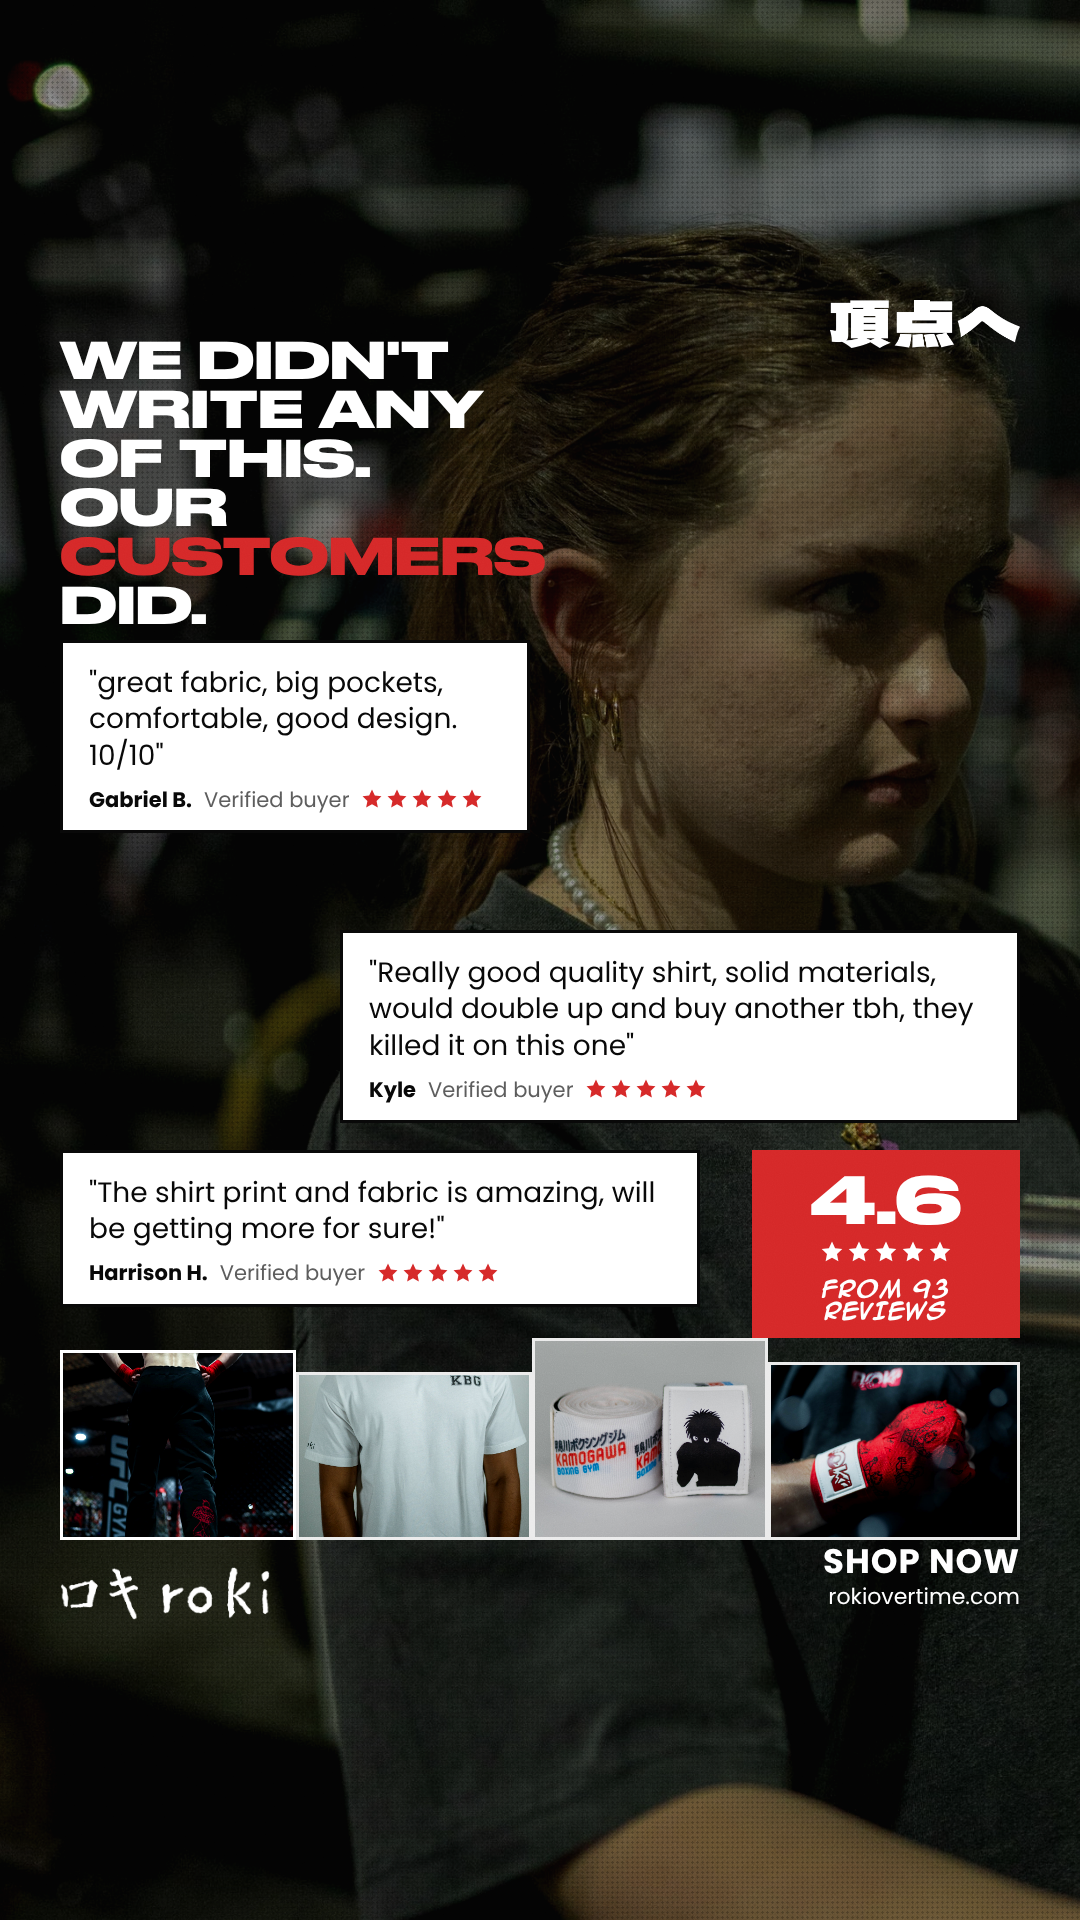
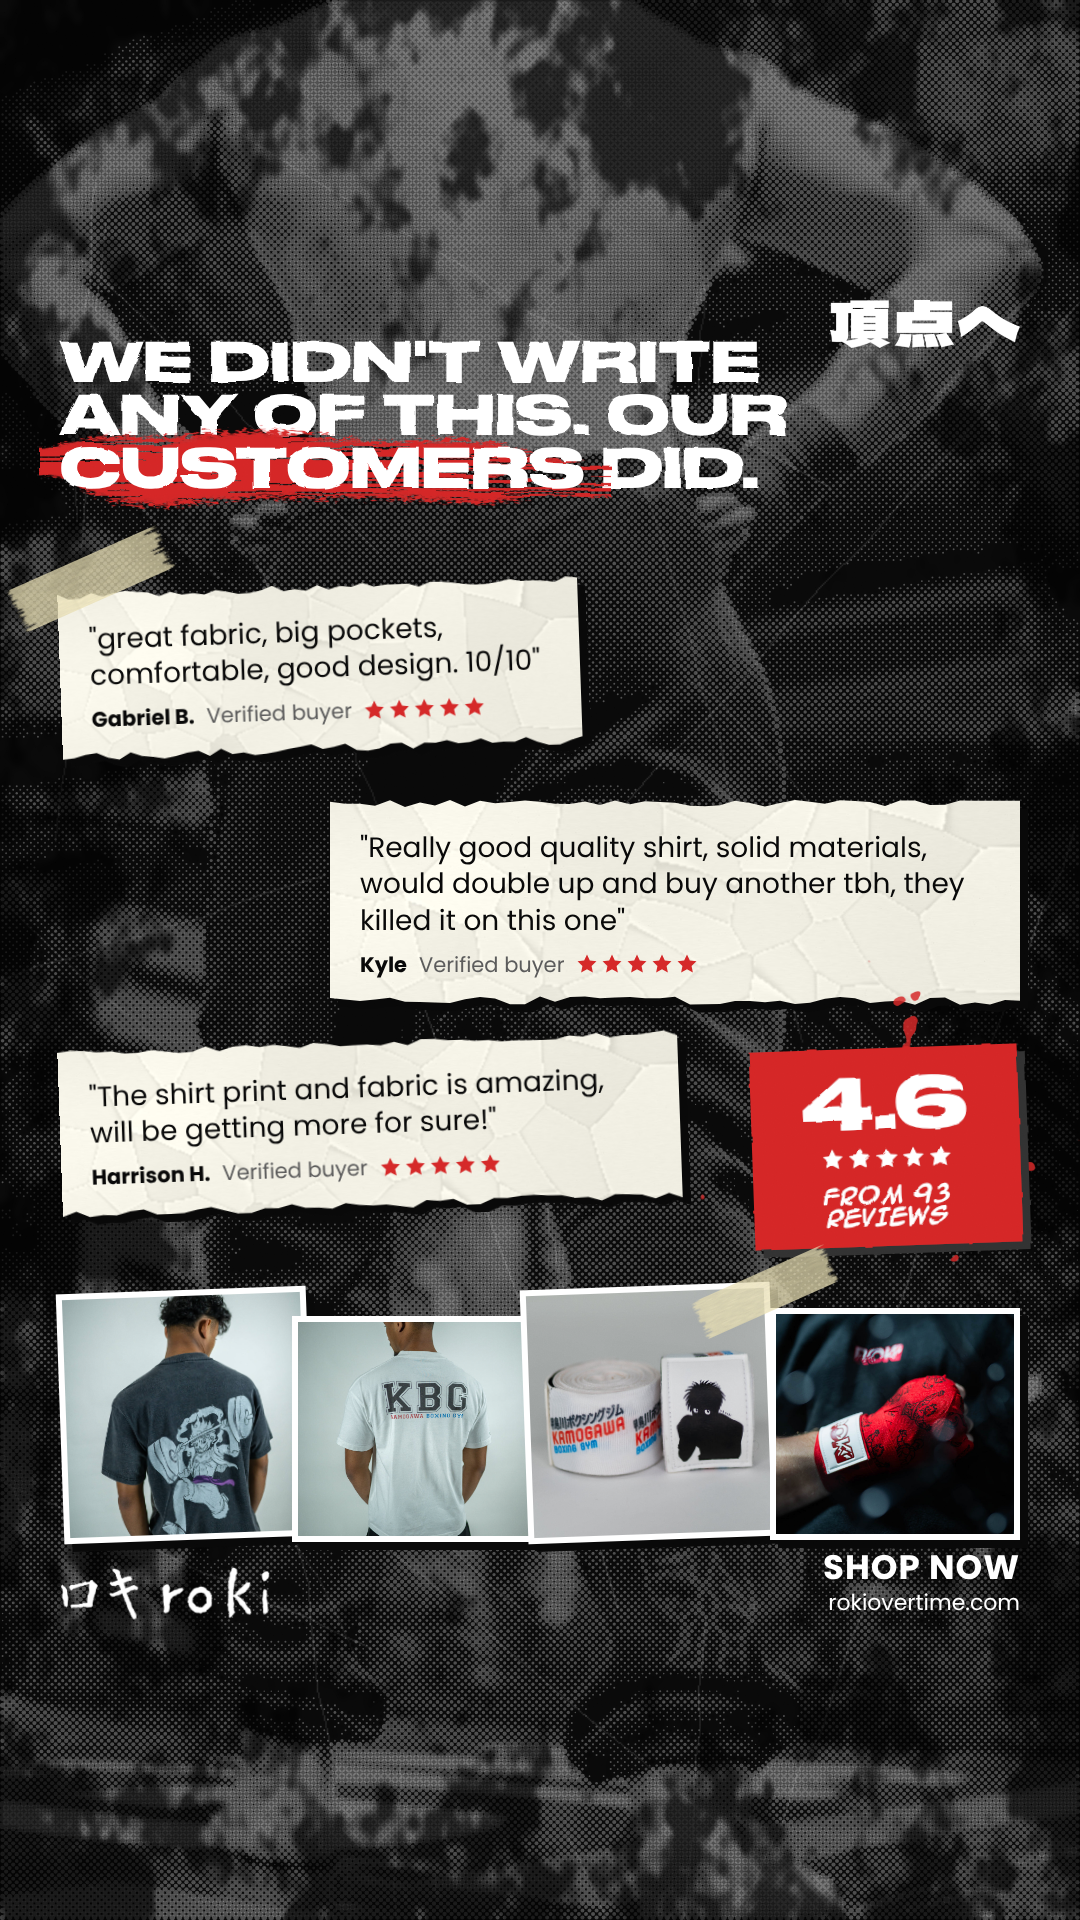
AD-007 hi-fi v2: grunge treatment, cage halftone background, new thumbs, 3-line hook
Claude-Session: https://claude.ai/code/session_012ToaCGcLt8u8fZtcLrNXTx

diff --git a/ads/AD-007/layout/AD-007-layout.html b/ads/AD-007/layout/AD-007-layout.html
@@ -15,47 +15,62 @@
     --ink: #080808;
     --paper: #ffffff;
     --ink-muted: #5a5a5a;
-    --space-3: 60px;
     --border-frame: 3px;
     --font-display: "Druk Wide", "Arial Black", sans-serif;
     --font-comic: "Anime Ace", "Comic Sans MS", cursive;
     --font-body: Poppins, "Helvetica Neue", Arial, sans-serif;
+    --tilt: -2deg;           /* the one tilt; everything else is 0 */
   }
 
   * { box-sizing: border-box; margin: 0; }
   body { background: var(--ink); }
   .ad { position: relative; width: 1080px; height: 1920px; overflow: hidden; background: var(--ink); }
   .layer { position: absolute; inset: 0; }
+  canvas.layer { width: 1080px; height: 1920px; }
 
-  /* Hero: full-bleed, house finish (graded down, crushed blacks, fine screen tone) */
-  .hero { background: url("assets/hero-pumpcover.jpg") -17px 0 / auto 2200px no-repeat; filter: contrast(1.12) brightness(.78) saturate(.9); }
-  .shade { background: var(--ink); opacity: .32; }
-  .tone { background: radial-gradient(circle, var(--ink) 34%, transparent 38%) 0 0 / 5px 5px; opacity: .22; mix-blend-mode: multiply; }
+  /* Background: Tier C halftone plate of the cage shot, paper dots on ink */
+  .bg-dim { background: var(--ink); opacity: .36; }
+  .edge { background: url("assets/grunge/edge_0.png") center / 100% 100%; opacity: .9; }
+  .scratch { background: url("assets/grunge/scratch_0.png") center / cover; filter: invert(1); mix-blend-mode: screen; opacity: .18; }
 
-  .hook { position: absolute; left: 60px; top: 336px; width: 470px; font: 700 50px/0.98 var(--font-display); color: var(--paper); text-transform: uppercase; }
-  .hook em { font-style: normal; color: var(--signal-red); }
+  /* Hook: three lines, fitted by measurement */
+  .hook { position: absolute; left: 60px; top: 336px; width: 760px; color: var(--paper); font-family: var(--font-display); font-weight: 700; line-height: .98; text-transform: uppercase; filter: url(#rough); }
+  .hook span { display: block; white-space: nowrap; width: max-content; }
+  .hook .hit { position: relative; z-index: 0; }
+  .hook .hit::before { content: ""; position: absolute; z-index: -1; left: -20px; right: -28px; top: -16px; bottom: -20px; background: var(--signal-red);
+    -webkit-mask: url("assets/grunge/stroke_2.png") center / 100% 100%; mask: url("assets/grunge/stroke_2.png") center / 100% 100%; }
 
-  .quote { position: absolute; background: var(--paper); border: var(--border-frame) solid var(--ink); padding: 22px 26px 20px; color: var(--ink); }
+  /* Review panels: torn paper with a hard ink shadow */
+  .panel { position: absolute; filter: drop-shadow(8px 8px 0 var(--ink)); }
+  .panel.tilt { transform: rotate(var(--tilt)); }
+  .quote { position: relative; background: var(--paper) url("assets/grunge/cream_0.jpg") center / cover; background-blend-mode: multiply; padding: 30px 30px 30px; color: var(--ink); }
   .quote p { font: 400 28px/1.3 var(--font-body); }
   .quote .by { display: flex; align-items: center; gap: 12px; margin-top: 14px; font: 700 21px/1 var(--font-body); }
   .quote .by span { font-weight: 400; color: var(--ink-muted); }
   .stars { display: inline-flex; gap: 3px; }
   .stars svg { width: 22px; height: 22px; fill: var(--signal-red); }
 
-  .badge { position: absolute; background: var(--signal-red); color: var(--paper); padding: 18px 22px 16px; text-align: center; }
-  .badge b { display: block; font: 700 64px/1 var(--font-display); }
+  .tape { position: absolute; width: 170px; height: 46px; background: url("assets/grunge/masking_0.png") center / 100% 100%; opacity: .92; }
+
+  /* Rating stamp */
+  .splat { position: absolute; background: var(--signal-red); -webkit-mask: url("assets/grunge/splat_1.png") center / 100% 100%; mask: url("assets/grunge/splat_1.png") center / 100% 100%; opacity: .85; }
+  .badge { position: absolute; background: var(--signal-red); color: var(--paper); padding: 20px 22px 18px; text-align: center; transform: rotate(var(--tilt)); filter: url(#roughSoft) drop-shadow(8px 8px 0 var(--ink)); }
+  .badge b { display: block; font: 700 70px/1 var(--font-display); }
   .badge .stars svg { fill: var(--paper); width: 24px; height: 24px; }
   .badge small { display: block; margin-top: 10px; font: 700 20px/1.1 var(--font-comic); letter-spacing: .5px; }
 
-  .thumb { position: absolute; border: var(--border-frame) solid var(--paper); background: var(--ink) center / cover no-repeat; filter: contrast(1.08) brightness(.92); }
+  /* Product photos: paper-framed, overlapped, offset */
+  .thumb { position: absolute; border: 6px solid var(--paper); background: var(--ink) center / cover no-repeat; filter: drop-shadow(8px 8px 0 var(--ink)); }
+  .thumb.tilt { transform: rotate(var(--tilt)); }
 
   .wordmark { position: absolute; left: 60px; bottom: 300px; width: 210px; }
   .choten { position: absolute; right: 60px; top: 300px; width: 190px; }
-  .cta { position: absolute; right: 60px; bottom: 312px; text-align: right; color: var(--paper); }
+  .cta { position: absolute; right: 60px; bottom: 306px; text-align: right; color: var(--paper); }
   .cta b { display: block; font: 700 34px/1 var(--font-body); letter-spacing: 1px; }
   .cta span { display: block; margin-top: 8px; font: 400 22px/1 var(--font-body); }
 
-  .grain { filter: url(#grain); mix-blend-mode: overlay; opacity: .16; }
+  .grainA { filter: url(#grain); mix-blend-mode: overlay; opacity: .22; }
+  .grainB { filter: url(#grain); mix-blend-mode: overlay; opacity: .07; }
 </style>
 </head>
 <body>
@@ -64,50 +79,133 @@
     <feTurbulence type="fractalNoise" baseFrequency="0.9" numOctaves="2" seed="7"/>
     <feColorMatrix type="saturate" values="0"/>
   </filter>
+  <filter id="rough" x="-5%" y="-5%" width="110%" height="110%">
+    <feTurbulence type="fractalNoise" baseFrequency="0.035" numOctaves="3" seed="3" result="n"/>
+    <feDisplacementMap in="SourceGraphic" in2="n" scale="4" xChannelSelector="R" yChannelSelector="G"/>
+  </filter>
+  <filter id="roughSoft" x="-5%" y="-5%" width="110%" height="110%">
+    <feTurbulence type="fractalNoise" baseFrequency="0.04" numOctaves="3" seed="9" result="n"/>
+    <feDisplacementMap in="SourceGraphic" in2="n" scale="3" xChannelSelector="R" yChannelSelector="G"/>
+  </filter>
   <symbol id="star" viewBox="0 0 24 24"><path d="M12 1.6l3.1 6.6 7.2.9-5.3 5 1.4 7.1L12 17.7l-6.4 3.5 1.4-7.1-5.3-5 7.2-.9z"/></symbol>
 </svg>
 
 <div class="ad" id="ad">
-  <div class="layer hero"></div>
-  <div class="layer shade"></div>
-  <div class="layer tone"></div>
+  <canvas class="layer" id="plate" width="1080" height="1920"></canvas>
+  <div class="layer bg-dim"></div>
+  <div class="layer scratch"></div>
+  <div class="layer edge"></div>
+  <div class="layer grainA"></div>
 
-  <h1 class="hook">We didn't write any of this. Our <em>customers</em> did.</h1>
+  <h1 class="hook" id="hook">
+    <span>We didn't write</span>
+    <span>any of this. Our</span>
+    <span><b class="hit">customers</b> did.</span>
+  </h1>
   <img class="choten" src="assets/choten-block-white.png" alt="頂点へ">
 
-  <div class="quote" style="left:60px;top:640px;width:470px">
-    <p>"great fabric, big pockets, comfortable, good design. 10/10"</p>
-    <div class="by">Gabriel B. <span>Verified buyer</span> <i class="stars" data-n="5"></i></div>
+  <div class="panel tilt" style="left:60px;top:584px;width:520px">
+    <div class="quote torn">
+      <p>"great fabric, big pockets, comfortable, good design. 10/10"</p>
+      <div class="by">Gabriel B. <span>Verified buyer</span> <i class="stars" data-n="5"></i></div>
+    </div>
   </div>
-  <div class="quote" style="left:340px;top:930px;width:680px">
-    <p>"Really good quality shirt, solid materials, would double up and buy another tbh, they killed it on this one"</p>
-    <div class="by">Kyle <span>Verified buyer</span> <i class="stars" data-n="5"></i></div>
-  </div>
-  <div class="quote" style="left:60px;top:1150px;width:640px">
-    <p>"The shirt print and fabric is amazing, will be getting more for sure!"</p>
-    <div class="by">Harrison H. <span>Verified buyer</span> <i class="stars" data-n="5"></i></div>
+  <div class="tape" style="left:6px;top:556px;transform:rotate(-24deg)"></div>
+
+  <div class="panel" style="left:330px;top:800px;width:690px">
+    <div class="quote torn">
+      <p>"Really good quality shirt, solid materials, would double up and buy another tbh, they killed it on this one"</p>
+      <div class="by">Kyle <span>Verified buyer</span> <i class="stars" data-n="5"></i></div>
+    </div>
   </div>
 
-  <div class="badge" style="left:752px;top:1150px;width:268px">
+  <div class="panel tilt" style="left:60px;top:1040px;width:620px">
+    <div class="quote torn">
+      <p>"The shirt print and fabric is amazing, will be getting more for sure!"</p>
+      <div class="by">Harrison H. <span>Verified buyer</span> <i class="stars" data-n="5"></i></div>
+    </div>
+  </div>
+
+  <div class="splat" style="left:700px;top:960px;width:380px;height:380px"></div>
+  <div class="badge" style="left:752px;top:1048px;width:268px">
     <b>4.6</b>
     <i class="stars" data-n="5" style="margin-top:8px"></i>
     <small>FROM 93 REVIEWS</small>
   </div>
 
-  <div class="thumb" style="left:60px;top:1350px;width:236px;height:190px;background-image:url(assets/thumb-joggers.jpg);background-position:50% 52%;filter:contrast(1.05) brightness(1.2)"></div>
-  <div class="thumb" style="left:296px;top:1372px;width:236px;height:168px;background-image:url(assets/thumb-shirt.jpg);background-position:50% 35%"></div>
-  <div class="thumb" style="left:532px;top:1338px;width:236px;height:202px;background-image:url(assets/thumb-kwraps.jpg)"></div>
-  <div class="thumb" style="left:768px;top:1362px;width:252px;height:178px;background-image:url(assets/thumb-gwrap.jpg)"></div>
+  <div class="thumb tilt" style="left:60px;top:1290px;width:250px;height:250px;background-image:url(assets/thumb-pumpcover.jpg);background-position:50% 40%"></div>
+  <div class="thumb" style="left:292px;top:1316px;width:250px;height:226px;background-image:url(assets/thumb-shirt-back.jpg);background-position:50% 45%"></div>
+  <div class="thumb tilt" style="left:524px;top:1286px;width:250px;height:254px;background-image:url(assets/thumb-kwraps.jpg)"></div>
+  <div class="thumb" style="left:770px;top:1308px;width:250px;height:232px;background-image:url(assets/thumb-gwrap.jpg)"></div>
+  <div class="tape" style="left:690px;top:1272px;width:150px;height:40px;background-image:url(assets/grunge/masking_1.png);transform:rotate(-24deg)"></div>
 
   <img class="wordmark" src="assets/roki-wordmark-white.png" alt="ロキ roki">
   <div class="cta"><b>SHOP NOW</b><span>rokiovertime.com</span></div>
 
-  <div class="layer grain"></div>
+  <div class="layer grainB"></div>
 </div>
 
 <script>
+  // Seeded random so every render is identical
+  function rnd(seed) { let s = seed >>> 0; return () => ((s = (s * 1664525 + 1013904223) >>> 0) / 4294967296); }
+
+  // Stars
   const star = '<svg><use href="#star"/></svg>';
   document.querySelectorAll('.stars').forEach(s => { s.innerHTML = star.repeat(+s.dataset.n); });
+
+  // Torn top and bottom edges on the review panels
+  document.querySelectorAll('.torn').forEach((el, i) => {
+    const r = rnd(41 + i * 17), w = el.offsetWidth, h = el.offsetHeight, n = 46, pts = [];
+    for (let k = 0; k <= n; k++) pts.push(`${(k / n * w).toFixed(1)}px ${(r() * 7).toFixed(1)}px`);
+    for (let k = n; k >= 0; k--) pts.push(`${(k / n * w).toFixed(1)}px ${(h - r() * 9).toFixed(1)}px`);
+    el.style.clipPath = `polygon(${pts.join(',')})`;
+  });
+
+  // Fit the hook: three lines, widest line fills the column
+  function fitHook() {
+    const el = document.getElementById('hook'), maxW = 740; let lo = 30, hi = 90;
+    while (hi - lo > 1) { const m = (lo + hi) >> 1; el.style.fontSize = m + 'px';
+      const wide = Math.max(...[...el.children].map(s => s.getBoundingClientRect().width)); wide <= maxW ? lo = m : hi = m; }
+    el.style.fontSize = lo + 'px';
+  }
+
+  // Background plate: levelled cage shot, 5 px halftone in paper on ink (Tier C)
+  function levels(d, W, H, target = 0.5) {
+    const L = new Float32Array(W * H);
+    for (let k = 0; k < W * H; k++) L[k] = (.299 * d[k*4] + .587 * d[k*4+1] + .114 * d[k*4+2]) / 255;
+    const s = Float32Array.from(L).sort(), a = s[(W*H*.02)|0], b = s[(W*H*.98)|0]; let m = 0;
+    for (let k = 0; k < W * H; k++) { L[k] = Math.min(1, Math.max(0, (L[k] - a) / (b - a + 1e-6))); m += L[k]; }
+    m /= W * H; const g = Math.log(target) / Math.log(Math.max(m, .02));
+    for (let k = 0; k < W * H; k++) L[k] = Math.pow(L[k], g);
+    return L;
+  }
+  function halftoneL(ctx, L, W, H, cell, ink, angle = 45, onDark = false) {
+    const a = angle * Math.PI / 180, c = Math.cos(a), s = Math.sin(a), R = Math.hypot(W, H);
+    ctx.fillStyle = ink;
+    for (let v = -R; v < R; v += cell) for (let u = -R; u < R; u += cell) {
+      const x = W/2 + u*c - v*s, y = H/2 + u*s + v*c; if (x < 0 || y < 0 || x >= W || y >= H) continue;
+      const l = L[(y|0) * W + (x|0)], rr = Math.sqrt(onDark ? l : 1 - l) * cell * .72;
+      if (rr > .35) { ctx.beginPath(); ctx.arc(x, y, rr, 0, 6.2832); ctx.fill(); }
+    }
+  }
+  function drawPlate() {
+    return new Promise(res => {
+      const img = new Image(); img.onload = () => {
+        const W = 1080, H = 1920, t = document.createElement('canvas'); t.width = W; t.height = H;
+        const x = t.getContext('2d', { willReadFrequently: true });
+        const sc = Math.max(W / img.naturalWidth, H / img.naturalHeight);
+        x.drawImage(img, (W - img.naturalWidth * sc) * .5, (H - img.naturalHeight * sc) * .35, img.naturalWidth * sc, img.naturalHeight * sc);
+        const L = levels(x.getImageData(0, 0, W, H).data, W, H, .42);
+        const ctx = document.getElementById('plate').getContext('2d');
+        ctx.fillStyle = '#080808'; ctx.fillRect(0, 0, W, H);
+        halftoneL(ctx, L, W, H, 5, 'rgba(255,255,255,.42)', 45, true);
+        res();
+      };
+      img.src = 'assets/bg-cage.jpg';
+    });
+  }
+
+  window.ready = Promise.all([document.fonts.ready, drawPlate()]).then(fitHook);
 </script>
 </body>
 </html>
